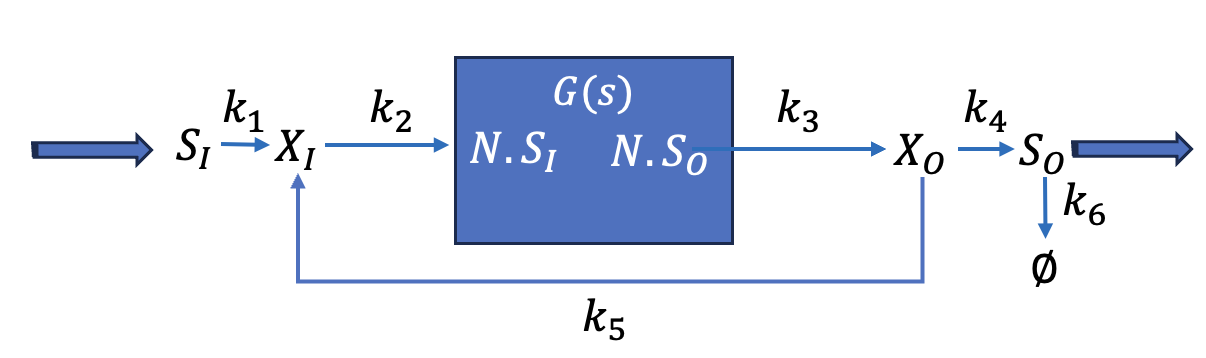
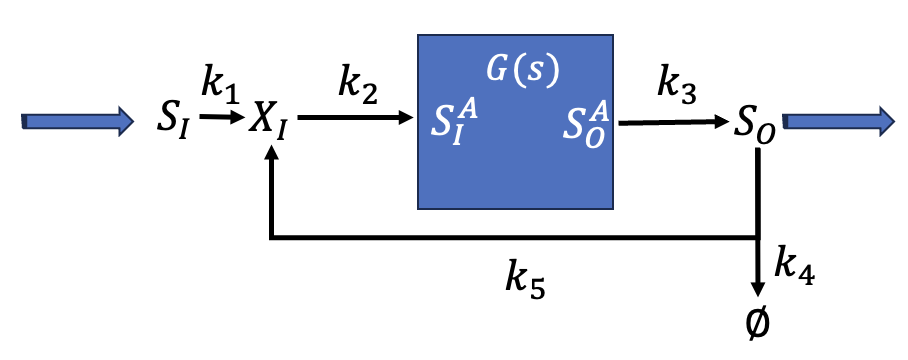
Derivation updates

Changed region(s): [[0.0, 0.0922, 1.0, 0.8296], [0.8018, 0.8603, 0.8634, 0.9525], [0.4626, 0.8296, 0.5242, 0.9525]]

diff --git a/docs/LRNBuilder/main.tex b/docs/LRNBuilder/main.tex
@@ -378,7 +378,6 @@ $G(0) = m$.
 
 %%%%%%%%%%%%%%%%%
 \subsubsection{Loop}
-\color{red}{Eliminate $X_0$}\color{black}.
 
 \begin{figure}
          \centering
@@ -402,45 +401,39 @@ the SLRN:
 \item $k_O = k^A_O + k$
 \end{itemize}
 
-Transfer function of the {\em loop} operation is derived in
+The following are the state equations of this system.
+\begin{eqnarray}
+s S_O (s) & = & k_3 S^A_O (s) - (k_4 + k_5) S_O \nonumber \\
+S_O & = & \frac{k_3 S^A_O(s)}{s + k_4 + k_5} \\
+s S^A_I(s) & = & k_2 X_I(s) - k^A_I S^A_I(s) \nonumber \\
+S^A_I(s) & = & \frac{k_2 X_I(s)}{s + k^A_I} \\
+s X_I (s) & = & k_5 S_O(s) + k_1 S_I (s) - k_2 X_I (s) \nonumber \\
+X_I(s) & = & \frac{k_5 S_O(s) + k_1 S_I (s)}{s + k_2} \\
+S^A_O(s) & = & S^A_I(s) G^A(s) \frac{s + k^A_O}{s + k^A_O + k_3}
+\end{eqnarray}
+We manipulate the state equations to derive the transfer function of
+the loop operation.
+This analysis is contained in
 Fig.~\ref{fig:loop-derivation}
+
 \begin{figure*}
 \begin{eqnarray}
-X_O (s) & = & \frac{k_2 k_3  G^{\prime} (s) X_I(s)}{s + k_4 + k_5}  \nonumber \\
-  &= &  \frac{k_2 k_3  G^{\prime} (s)}{s + k_4 + k_5} \frac{k_5 X_O(s) + k_1 S_I (s)}{s + k_2} \nonumber \\
-X_O (s) (s + k_2) (s + k_4 + k_5)  & = &
-  k_5 X_O(s) k_2 k_3  G^{\prime}(s) + k_1 S_I (s) k_2 k_3 G^{\prime}(s) \nonumber \\
-X_0 (s) & = & \frac{ k_1  k_2 k_3 G^{\prime}(s) S_I (s)}
-{(s + k_2) (s + k_4 + k_5) - k_2 k_3 k_5 G^{\prime} (s) } \nonumber \\
-S_O (s) & = & \frac{k_4}{s} \frac{ k_1  k_2 k_3 G^{\prime}(s) S_I (s)}
-  {(s + k_2) (s + k_4 + k_5) - k_2 k_3 k_5 G^{\prime}(s)} \nonumber \\
-   & = & \frac{ k_1  k_2 k_3 k_4 G^{\prime}(s) S_I (s)}
-  {(s + k_6) \lbrack (s + k_2) (s + k_4 + k_5) - k_2 k_3 k_5 G^{\prime} (s) \rbrack } \nonumber \\
-H(s) & = & \frac{ k_1  k_2 k_3 k_4 G^{\prime} (s)}
-  {(s + k_6) \lbrack (s + k_2) (s + k_4 + k_5) - k_2 k_3 k_5 G^{\prime} (s) \rbrack } \nonumber \\
-  & = & \frac{ K_1 G^{\prime} (s)}
-  {(s + k_6) \lbrack D(s) - K_2 G^{\prime} (s)\rbrack  } \nonumber \\
+s S_O (s) & = & k_3   G^A(s) \frac{s + k^A_O}{ s + k^A_O + k_3}  S^A_I(s) - (k_4  + k_5) S_O (s) \nonumber \\
+& = &
+  k_2 k_3  G(s) \frac{s + k^A_O}{(s + k^A_O + k_3)(s + k^A_I)} X_I(s)
+   -(k_4 S + k_5 )S_O (s) \nonumber \\
+& = &
+k_2 k_3  G^{\prime}(s)X_I(s) - (k_4 + k_5) S_O(s)  \nonumber \\
+S_O & = &  \frac{k_2 k_3  G^{\prime}(s) X_I(s)}{s + k_4 + k_5  }  \nonumber \\
+    & = &  \frac{k_2 k_3  G^{\prime}(s)}{s + k_4 + k_5  } \frac{k_5 S_O(s) + k_1 S_I (s)}{s + k_2} \nonumber \\
+(s + k_4 + k_5)(s + k_2)S_O & = &
+   k_2 k_3  G^{\prime}(s) (k_5 S_O(s) + k_1 S_I(s))
+    \nonumber \\
+S_O & = &  \frac{k_1 k_2 k_3  G^{\prime}(s) S_I(s)}{(s + k_4 + k_5)(s + k_2) + k_2 k_3 k_5 G^{\prime}(s)} \nonumber \nonumber \\
+H(s) & = & \frac{k_1 k_2 k_3  G^{\prime}(s)}{(s + k_4 + k_5)(s + k_2) + k_2 k_3 k_5 G^{\prime}(s)} \nonumber \\
+    & = & \frac{k_1 k_2 k_3  (s + k^A_O) G^A(s)}{(s + k^A_O + k_3)(s + k^A_I)(s + k_4 + k_5)(s + k_2) + k_2 k_3 k_5 (s + k^A_O)G(s)}
 \end{eqnarray}
-where $K_1 = k_1 k_2 k_3 k_4$, $K_2 = k_2 k_3 k_5$, $D(s) = (s + k_2) (s + k_4 + k_5)$.
-
-\begin{eqnarray}
-X_O (s) & = & \frac{k_2 k_3  G^{\prime} (s) X_I(s)}{s + k_4 + k_5}  \nonumber \\
-  &= &  \frac{k_2 k_3  G^{\prime} (s)}{s + k_4 + k_5} \frac{k_5 X_O(s) + k_1 S_I (s)}{s + k_2} \nonumber \\
-X_O (s) (s + k_2) (s + k_4 + k_5)  & = &
-  k_5 X_O(s) k_2 k_3  G^{\prime}(s) + k_1 S_I (s) k_2 k_3 G^{\prime}(s) \nonumber \\
-X_0 (s) & = & \frac{ k_1  k_2 k_3 G^{\prime}(s) S_I (s)}
-{(s + k_2) (s + k_4 + k_5) - k_2 k_3 k_5 G^{\prime} (s) } \nonumber \\
-S_O (s) & = & \frac{k_4}{s} \frac{ k_1  k_2 k_3 G^{\prime}(s) S_I (s)}
-  {(s + k_2) (s + k_4 + k_5) - k_2 k_3 k_5 G^{\prime}(s)} \nonumber \\
-   & = & \frac{ k_1  k_2 k_3 k_4 G^{\prime}(s) S_I (s)}
-  {(s + k_6) \lbrack (s + k_2) (s + k_4 + k_5) - k_2 k_3 k_5 G^{\prime} (s) \rbrack } \nonumber \\
-H(s) & = & \frac{ k_1  k_2 k_3 k_4 G^{\prime} (s)}
-  {(s + k_6) \lbrack (s + k_2) (s + k_4 + k_5) - k_2 k_3 k_5 G^{\prime} (s) \rbrack } \nonumber \\
-  & = & \frac{ K_1 G^{\prime} (s)}
-  {(s + k_6) \lbrack D(s) - K_2 G^{\prime} (s)\rbrack  } \nonumber \\
-\end{eqnarray}
-where $K_1 = k_1 k_2 k_3 k_4$, $K_2 = k_2 k_3 k_5$, $D(s) = (s + k_2) (s + k_4 + k_5)$.
-\caption{Derivation of transfer function for the loop operation}\label{fig:loop-derivation}
+\caption{Loop derivations}\label{fig:loop-derivation}
 \end{figure*}
 
 %%%%%%%%%%%%%%%%%%%%%%%%%%%%%
